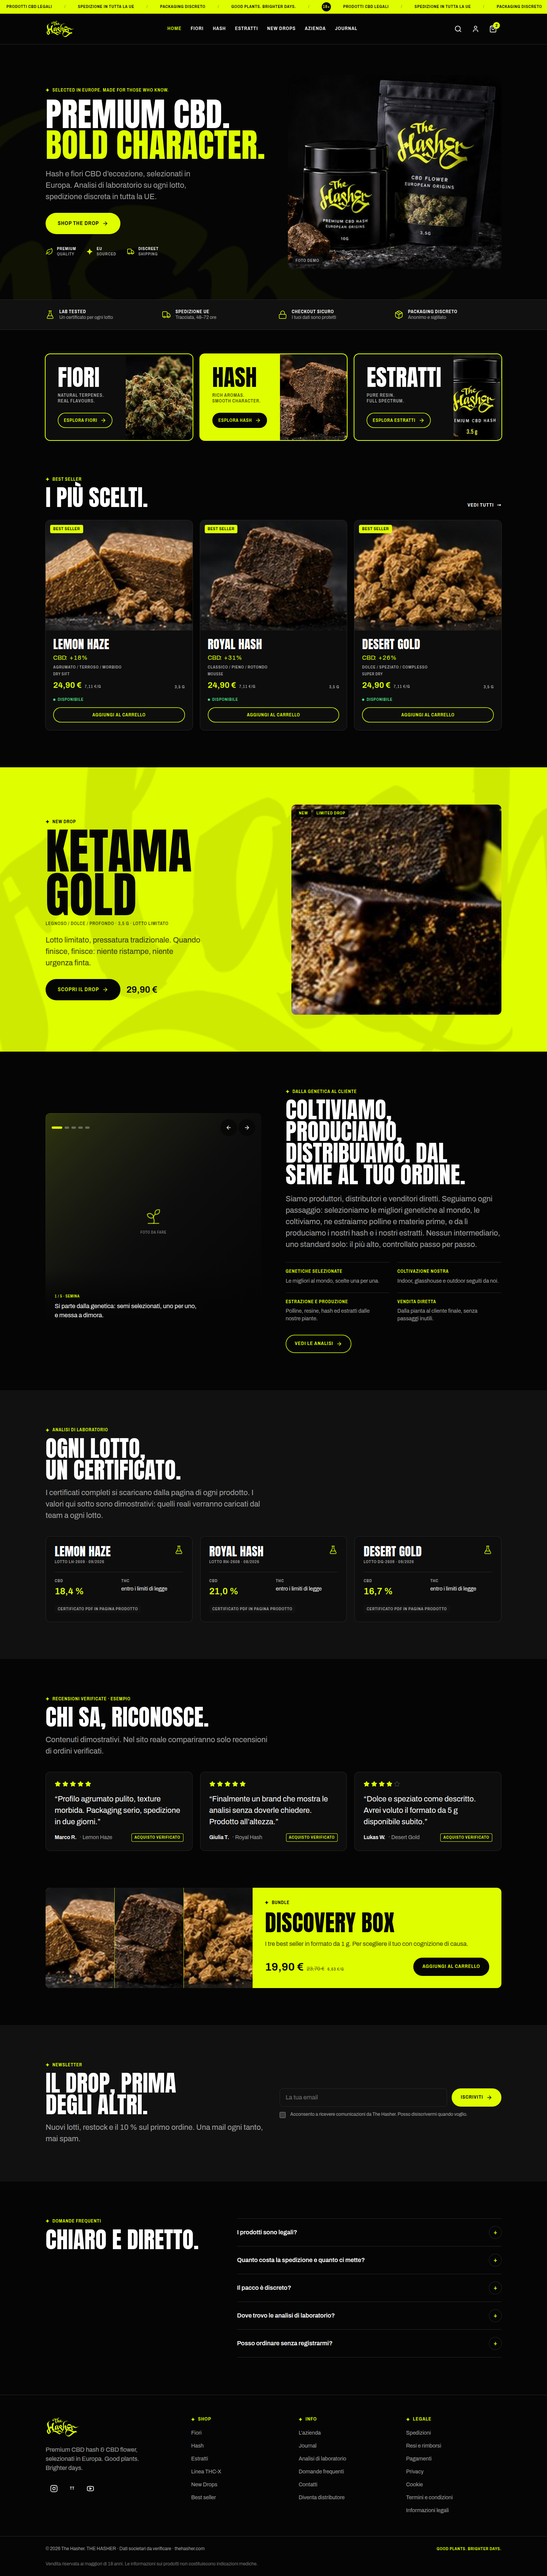
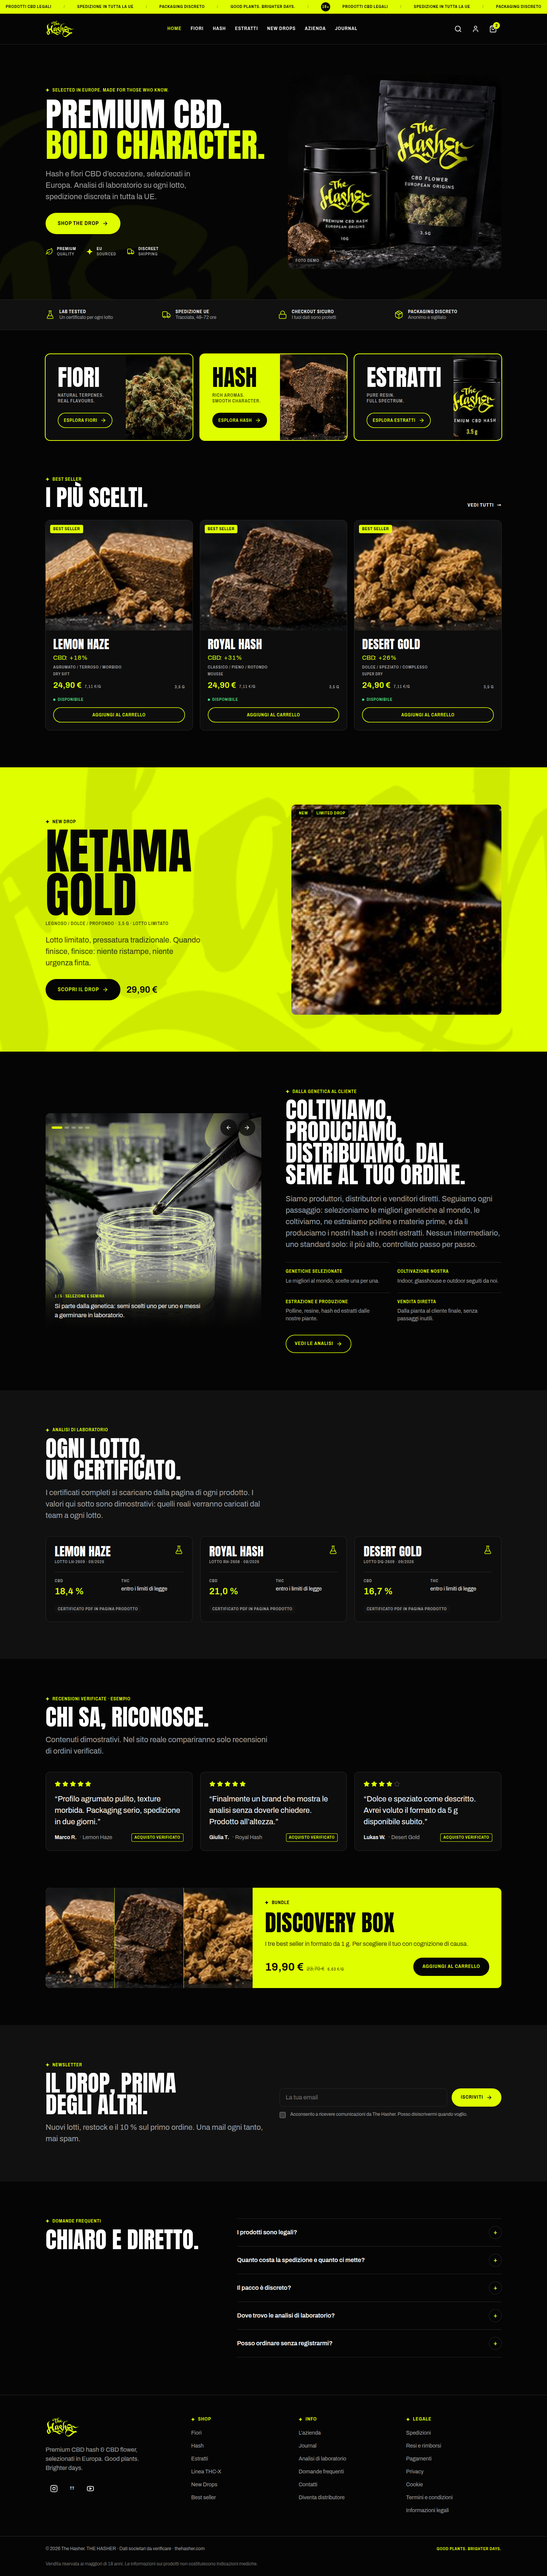
Filiera con le foto del brand, rilavorate in chiave The Hasher
Le cinque tappe della home (selezione e semina, coltivazione indoor,
raccolta e lavorazione, setacciatura, pressatura) usano ora le foto fornite
dal brand, portate sullo stile del sito: colore quasi tolto, ombre sul nero,
giallo acido solo sulle alte luci, vignettatura e grana.

Originali in design/inputs/filiera/, versioni pronte in public/images/filiera/,
trattamento ripetibile con scripts/look-hasher.py.

Claude-Session: https://claude.ai/code/session_01PPPZbsQhydRMweje4EtK5n

Changed region(s): [[0.0625, 0.4047, 0.5, 0.5292]]

diff --git a/src/components/sections/Filiera.tsx b/src/components/sections/Filiera.tsx
@@ -1,18 +1,14 @@
-import { ArrowLeft, ArrowRight, Scissors, Sprout, Sun } from 'lucide-react'
+import { ArrowLeft, ArrowRight } from 'lucide-react'
 import { useEffect, useState } from 'react'
 import { home } from '@/data/home'
 import { asset } from '@/lib/asset'
 import { cn } from '@/lib/cn'
-
-const icone = { semina: Sprout, indoor: Sun, setaccio: Scissors } as const
-type Icona = keyof typeof icone
 
 const slides = home.story.slides
 
 /**
  * Le cinque tappe della filiera, una alla volta.
  * Scorre da sola ogni sei secondi; frecce e puntini per andare avanti a mano.
- * Dove la foto non c'è ancora, resta un riquadro con l'icona del passaggio.
  */
 export function Filiera() {
   const [i, setI] = useState(0)
@@ -36,16 +32,12 @@ export function Filiera() {
             n === i ? 'opacity-100' : 'opacity-0',
           )}
         >
-          {'image' in s && s.image ? (
-            <img
-              src={asset(s.image)}
-              alt={`${s.titolo}: ${s.testo}`}
-              loading="lazy"
-              className="size-full object-cover"
-            />
-          ) : (
-            <Placeholder icona={('icona' in s ? s.icona : 'semina') as Icona} />
-          )}
+          <img
+            src={asset(s.image)}
+            alt={`${s.titolo}: ${s.testo}`}
+            loading="lazy"
+            className="size-full object-cover"
+          />
           <div className="absolute inset-x-0 bottom-0 bg-gradient-to-t from-bg via-bg/80 to-transparent p-6 pt-16">
             <p className="label text-[0.625rem] text-primary">
               {n + 1} / {slides.length} · {s.titolo}
@@ -103,18 +95,5 @@ function Freccia({
     >
       {children}
     </button>
-  )
-}
-
-/** Riquadro di attesa: la foto di questo passaggio va ancora scattata. */
-function Placeholder({ icona }: { icona: Icona }) {
-  const Icon = icone[icona]
-  return (
-    <div className="grid size-full place-items-center bg-gradient-to-br from-primary/20 via-surface to-bg">
-      <div className="flex flex-col items-center gap-3 text-fg-subtle">
-        <Icon className="size-12 text-primary/70" strokeWidth={1.25} />
-        <span className="label text-[0.625rem]">Foto da fare</span>
-      </div>
-    </div>
   )
 }

diff --git a/src/data/home.ts b/src/data/home.ts
@@ -63,32 +63,35 @@ export const home = {
       { title: 'Vendita diretta', text: 'Dalla pianta al cliente finale, senza passaggi inutili.' },
     ],
     cta: 'Vedi le analisi',
-    /** Le cinque tappe della filiera. `image` assente = foto ancora da fare. */
+    /** Le cinque tappe della filiera. Foto fornite dal brand, rilavorate in chiave The Hasher. */
     slides: [
       {
-        titolo: 'Semina',
-        testo: 'Si parte dalla genetica: semi selezionati, uno per uno, e messa a dimora.',
-        icona: 'semina',
+        titolo: 'Selezione e semina',
+        testo:
+          'Si parte dalla genetica: semi scelti uno per uno e messi a germinare in laboratorio.',
+        image: 'images/filiera/semina.jpg',
       },
       {
         titolo: 'Coltivazione indoor',
-        testo: 'Impianto nostro: luce, clima e nutrimento controllati ogni giorno.',
-        image: 'images/demo/flower-macro-2.jpg',
+        testo:
+          'Impianto nostro: luce, clima e nutrimento controllati ogni giorno fino alla fioritura.',
+        image: 'images/filiera/coltivazione.jpg',
+      },
+      {
+        titolo: 'Raccolta e lavorazione',
+        testo:
+          'Le cime si raccolgono, si rifilano e si asciugano: da qui escono fiori e materia prima.',
+        image: 'images/filiera/raccolta.jpg',
       },
       {
         titolo: 'Setacciatura',
-        testo: 'I fiori passano sui setacci: quello che scende è kif, resina pura.',
-        image: 'images/demo/hash-macro.jpg',
+        testo: 'I fiori passano sui setacci: quello che scende è kif, la resina pura della pianta.',
+        image: 'images/filiera/setacciatura.jpg',
       },
       {
         titolo: 'Pressatura',
-        testo: 'La resina viene pressata a freddo: prende corpo, profumo e consistenza.',
-        image: 'images/demo/hash-texture.jpg',
-      },
-      {
-        titolo: 'Il prodotto finito',
-        testo: 'Mousse, dry sift, estratti: tutto nasce dalle nostre genetiche.',
-        image: 'images/demo/royal-hash.jpg',
+        testo: 'La resina viene pressata a freddo: nasce il panetto, dalle nostre genetiche.',
+        image: 'images/filiera/pressatura.jpg',
       },
     ],
   },

diff --git a/scripts/look-hasher.py b/scripts/look-hasher.py
@@ -1,0 +1,57 @@
+#!/usr/bin/env python3
+"""
+Porta una foto nello stile The Hasher: neri profondi, colore quasi assente,
+giallo acido solo sulle alte luci, vignettatura e grana fine.
+
+Uso:
+    python3 scripts/look-hasher.py foto.jpg public/images/filiera/nome.jpg
+    python3 scripts/look-hasher.py cartella/ public/images/filiera/
+
+Richiede Pillow e numpy.
+"""
+import sys
+from pathlib import Path
+
+from PIL import Image, ImageEnhance
+import numpy as np
+
+GIALLO = np.array([0.874, 1.0, 0.0])  # --color-primary #dfff00
+LATO_MAX = 1400
+
+
+def hasher(img: Image.Image, forza=0.5, soglia=0.55, gamma=1.6) -> Image.Image:
+    im = ImageEnhance.Color(img.convert('RGB')).enhance(0.24)
+    im = ImageEnhance.Contrast(im).enhance(1.32)
+    a = np.asarray(im).astype(np.float32) / 255
+    a = np.clip((a - 0.10) / 0.86, 0, 1) ** 1.12  # ombre sul nero
+    a *= 0.9
+    lum = (a * np.array([0.2126, 0.7152, 0.0722])).sum(axis=2, keepdims=True)
+    mask = np.clip((lum - soglia) / (1 - soglia), 0, 1) ** gamma * forza
+    out = a * (1 - mask) + GIALLO * mask  # il giallo entra solo dove c'è luce
+    h, w = out.shape[:2]
+    yy, xx = np.mgrid[0:h, 0:w]
+    r = np.sqrt(((xx - w / 2) / (w / 2)) ** 2 + ((yy - h / 2) / (h / 2)) ** 2)
+    out *= np.clip(1 - 1.25 * np.clip(r - 0.5, 0, None) ** 1.35, 0.26, 1)[..., None]
+    out = np.clip(out + np.random.default_rng(11).normal(0, 0.013, (h, w, 1)), 0, 1)
+    return Image.fromarray((out * 255).astype('uint8'))
+
+
+def lavora(src: Path, dst: Path) -> None:
+    im = Image.open(src)
+    im.thumbnail((LATO_MAX, LATO_MAX), Image.LANCZOS)
+    dst.parent.mkdir(parents=True, exist_ok=True)
+    hasher(im).save(dst, quality=82, optimize=True)
+    print(f'✓ {src.name} → {dst}')
+
+
+if __name__ == '__main__':
+    if len(sys.argv) != 3:
+        print(__doc__)
+        raise SystemExit(1)
+    sorgente, destinazione = Path(sys.argv[1]), Path(sys.argv[2])
+    if sorgente.is_dir():
+        for f in sorted(sorgente.iterdir()):
+            if f.suffix.lower() in {'.jpg', '.jpeg', '.png', '.webp'}:
+                lavora(f, destinazione / f'{f.stem}.jpg')
+    else:
+        lavora(sorgente, destinazione)

diff --git a/design/DECISIONS.md b/design/DECISIONS.md
@@ -60,3 +60,5 @@
 - 2026-09-27 · Il contorno giallo della scheda prodotto al passaggio del mouse gira tutta la scheda, foto compresa (ring esterno al posto di quello interno)
 - 2026-09-27 · Tolta la cornice nera attorno alla foto del new drop
 - 2026-09-27 · Sezione racconto riscritta sulla filiera: produttori, distributori e venditori diretti, dalla genetica al cliente finale; al posto della foto singola uno slider delle cinque tappe (semina, coltivazione indoor, setacciatura, pressatura, prodotto finito) · le foto di semina e coltivazione vanno ancora scattate: al loro posto un riquadro «Foto da fare»
+- 2026-09-27 · Le cinque foto della filiera arrivano dal brand e vengono rilavorate in chiave The Hasher: colore quasi tolto, ombre schiacciate sul nero, giallo acido solo sulle alte luci, vignettatura e grana · così le foto chiare da laboratorio non stonano sul fondo nero. Trattamento ripetibile con `scripts/look-hasher.py`, originali in `design/inputs/filiera/`
+- 2026-09-27 · Le tappe della filiera diventano: selezione e semina, coltivazione indoor, raccolta e lavorazione, setacciatura, pressatura · seguono le foto fornite

diff --git a/design/PROGRESS.md b/design/PROGRESS.md
@@ -32,6 +32,12 @@ Tassonomia completa a catalogo (37 prodotti demo): quattro linee (CBD, THC-X, CB
 colore, estratti per metodo di estrazione, tutti con i cannabinoidi dichiarati.
 Nomi, prezzi e foto sono demo: si sostituiscono con l'archivio vero senza toccare la struttura.
 
+## Foto
+
+La filiera in home usa cinque foto del brand rilavorate (`public/images/filiera/`, originali in
+`design/inputs/filiera/`, trattamento con `scripts/look-hasher.py`). Le foto prodotto sono ancora
+ritagli demo dai mockup.
+
 ## Prossima azione consigliata
 
 Foto e nomi veri dei prodotti (archivio Roican: va allegato in chat o sbloccato nelle impostazioni

diff --git a/public/images/filiera/README.md b/public/images/filiera/README.md
@@ -1,0 +1,7 @@
+# Foto della filiera
+
+Foto fornite dal brand (settembre 2026) e rilavorate in chiave The Hasher:
+neri profondi, colore quasi assente, giallo acido solo sulle alte luci, vignettatura e grana.
+
+- Originali: `design/inputs/filiera/`
+- Trattamento: `python3 scripts/look-hasher.py <foto o cartella> public/images/filiera/`
